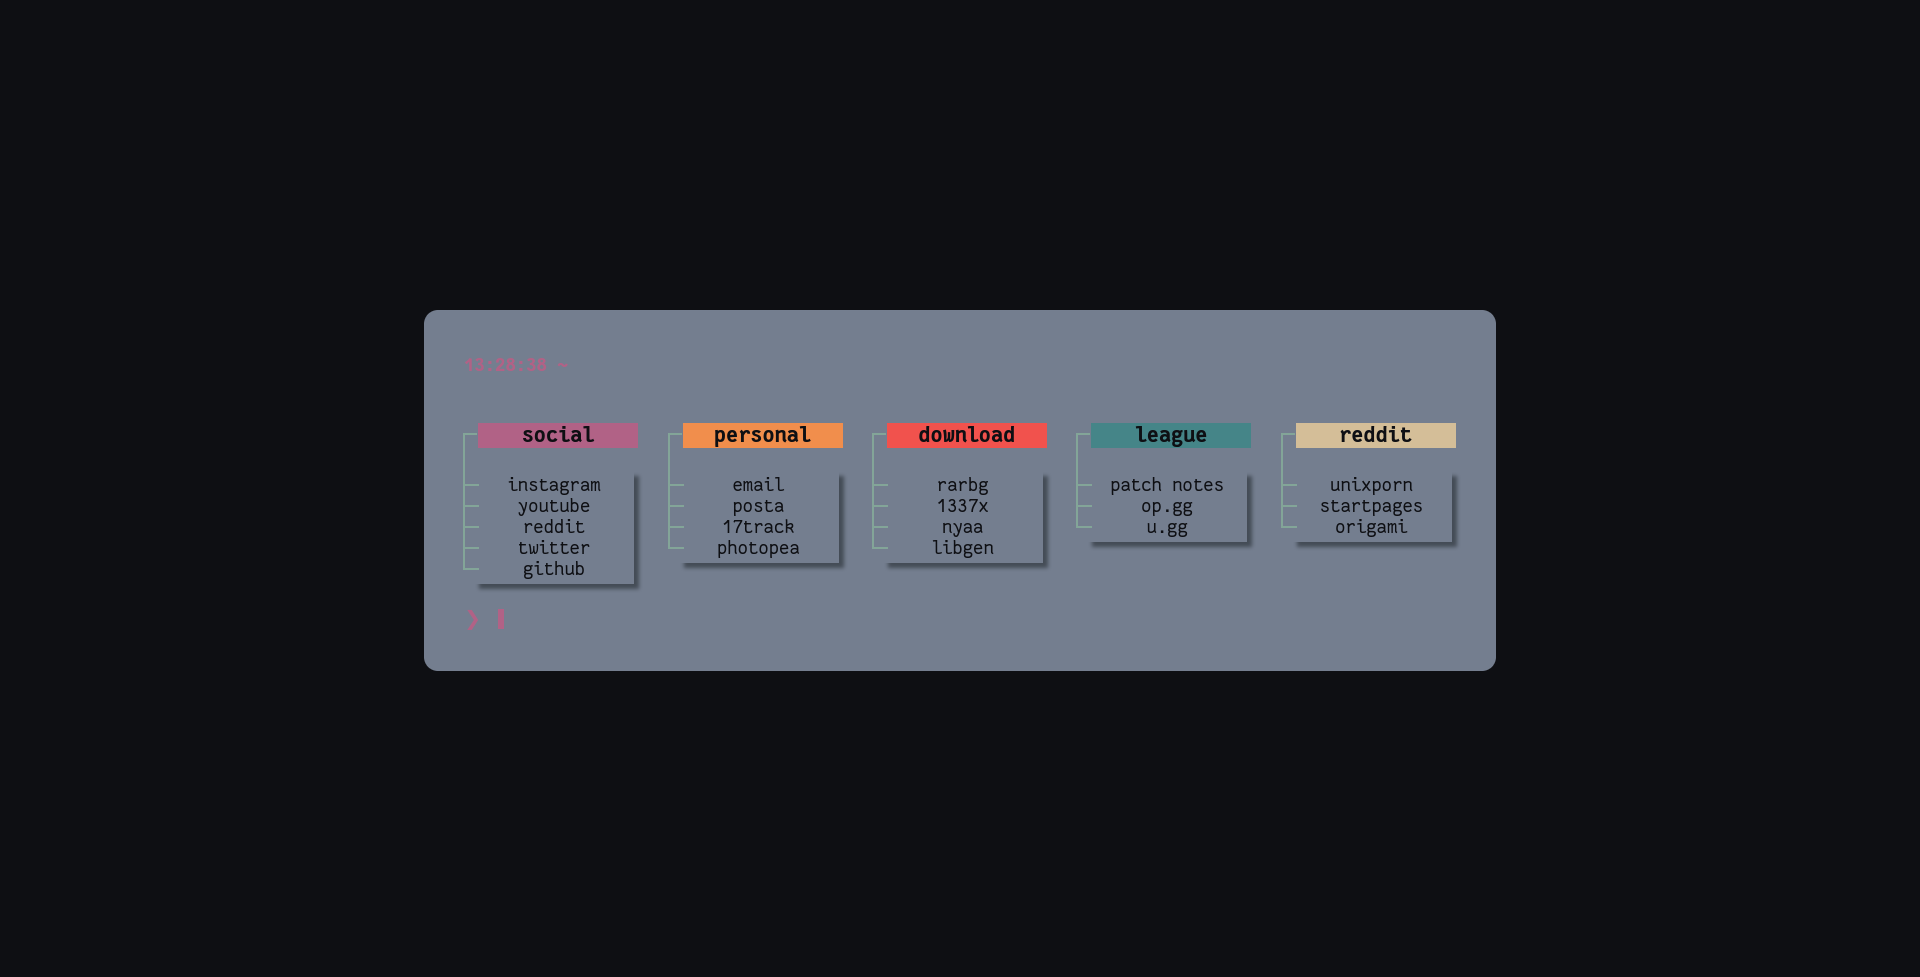
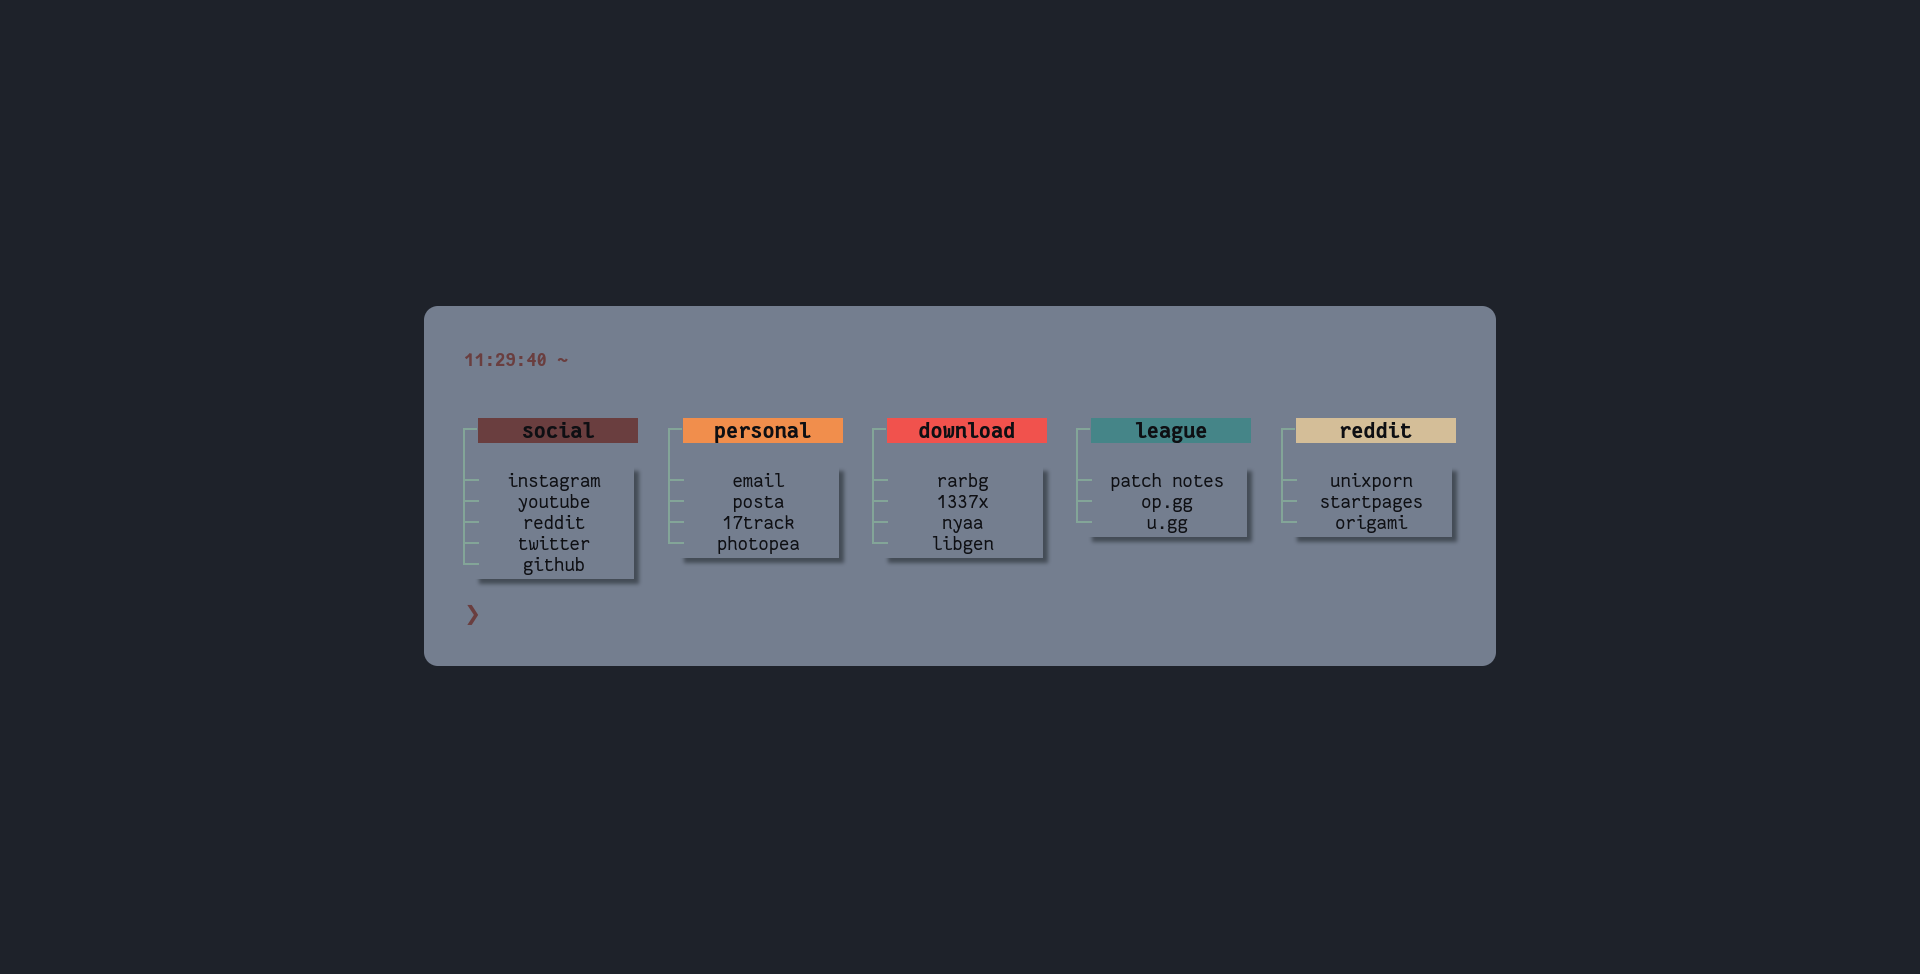
changed colors

diff --git a/css/style.css b/css/style.css
@@ -2,7 +2,7 @@ html {
     display: flex;
     align-items: center;
     justify-content: center;
-    background-color: #0e0f13;
+    background-color: #1e222a;
     font: 20px Fantasque Sans Mono;
     height: 100%;
 }
@@ -28,7 +28,7 @@ p {
 }
 
 p span {
-    color: #b16286;
+    color: #6a3e3f;
     font-weight: bold;
 }
 
@@ -39,7 +39,7 @@ p #logo {
 }
 
 p #cursor {
-    background-color: #b16286;
+    background-color: #6a3e3f;
     animation: blink 2s infinite;
 }
 
@@ -170,7 +170,7 @@ h3::after {
 }
 
 .social {
-    background-color: #b16286;
+    background-color: #6a3e3f;
 }
 
 .download {
